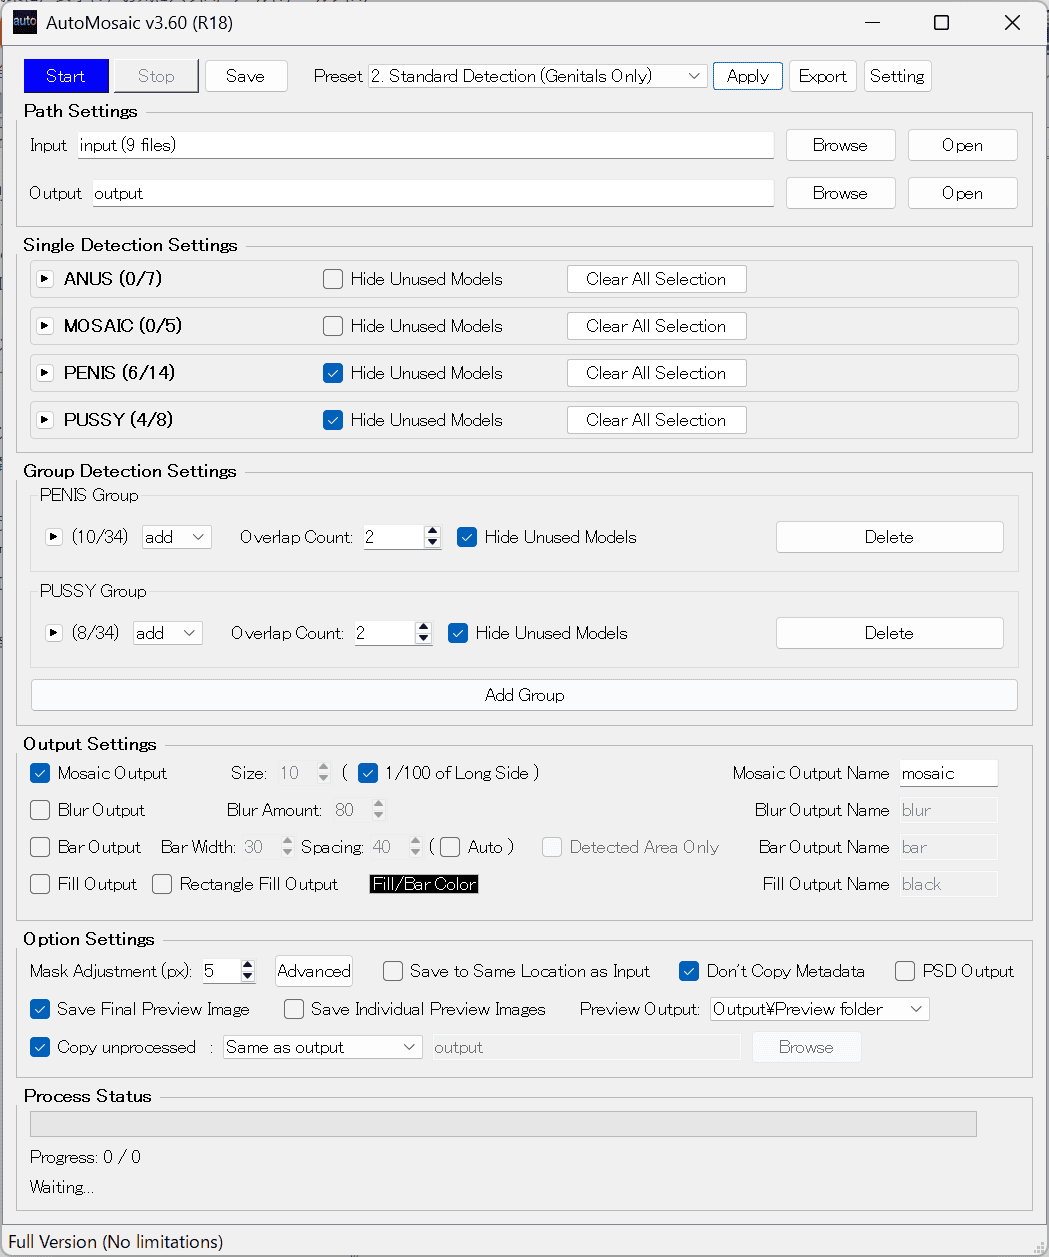
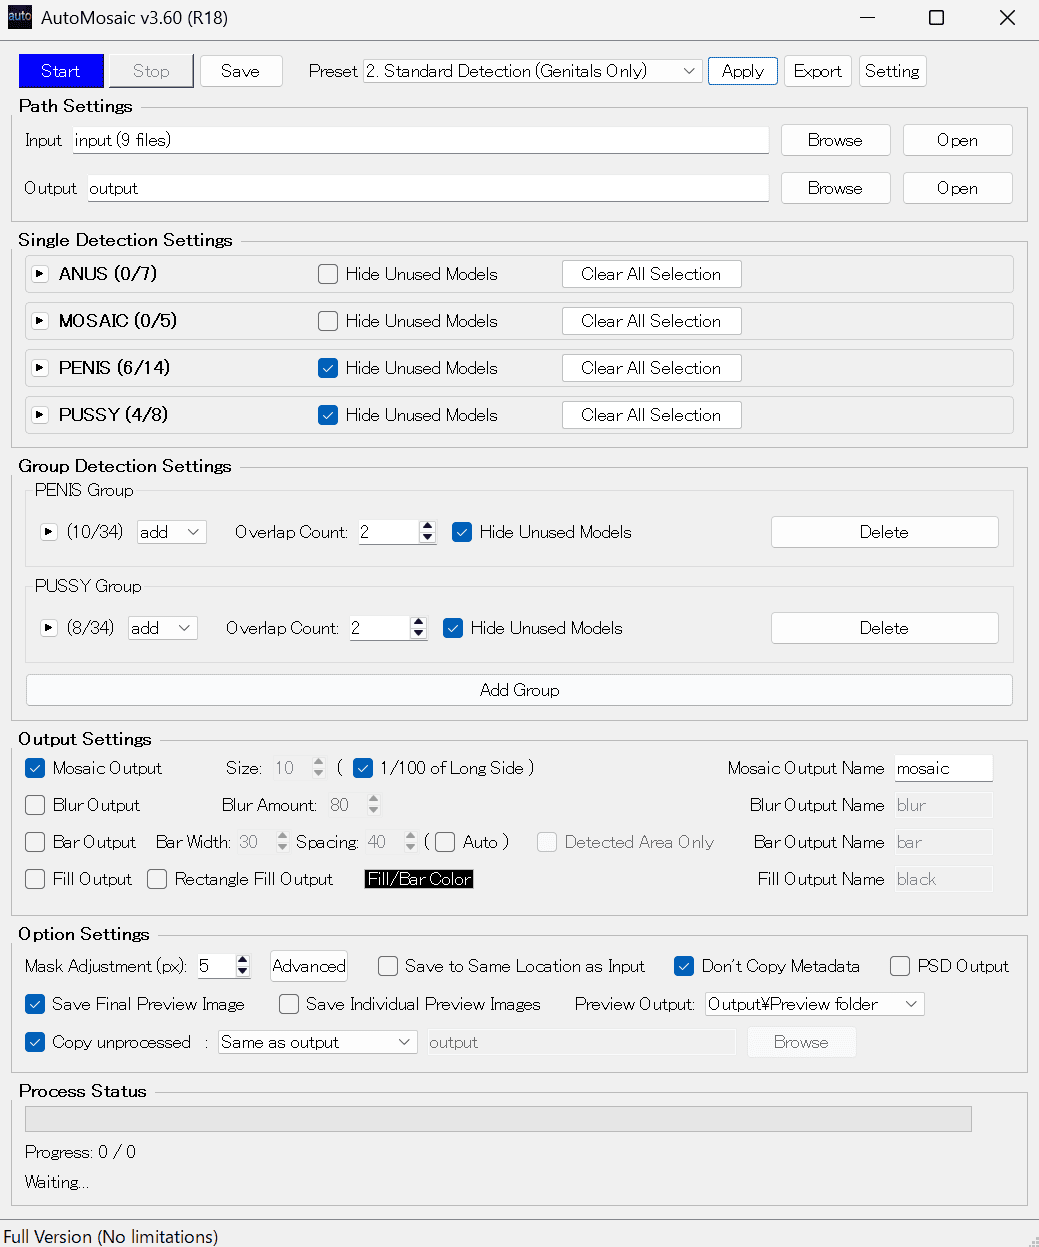
スクショ調整

diff --git a/automosaic-video_j.html b/automosaic-video_j.html
@@ -1276,11 +1276,11 @@
             <p class="benchmark-pending">測定結果は準備中です。</p>
           </div>
         </section>
-        <section class="section ui-preview" id="ui" style="--ui-shot-ratio: 1164 / 812">
+        <section class="section ui-preview" id="ui" style="--ui-shot-ratio: 1154 / 802">
           <h2><span class="lang-ja">UIスクリーンショット</span></h2>
           <a class="shot ui-shot lang-ja" id="ui-light-preview" data-ui-shot="light" href="assets/automosaic-video/ui_ja.png" rel="noopener" target="_blank">
             <div class="ui-shot-frame">
-              <img loading="lazy" decoding="async" alt="AutoMosaic Video (通常版) UI (Japanese) — ライト" src="assets/automosaic-video/ui_ja.png" width="1164" height="812" />
+              <img loading="lazy" decoding="async" alt="AutoMosaic Video (通常版) UI (Japanese) — ライト" src="assets/automosaic-video/ui_ja.png" width="1154" height="802" />
             </div>
             <div class="cap">UI（日本語・ライト）</div>
           </a>

diff --git a/automosaic-video.html b/automosaic-video.html
@@ -1211,11 +1211,11 @@
             <p class="benchmark-pending">Benchmark results are not yet available.</p>
           </div>
         </section>
-        <section class="section ui-preview" id="ui" style="--ui-shot-ratio: 1164 / 812">
+        <section class="section ui-preview" id="ui" style="--ui-shot-ratio: 1154 / 802">
           <h2><span class="lang-en">UI screenshot</span></h2>
           <a class="shot ui-shot lang-en" id="ui-light-preview" data-ui-shot="light" href="assets/automosaic-video/ui_en.png" rel="noopener" target="_blank">
             <div class="ui-shot-frame">
-              <img loading="lazy" decoding="async" alt="AutoMosaic Video (General) UI (English) — Light" src="assets/automosaic-video/ui_en.png" width="1164" height="812" />
+              <img loading="lazy" decoding="async" alt="AutoMosaic Video (General) UI (English) — Light" src="assets/automosaic-video/ui_en.png" width="1154" height="802" />
             </div>
             <div class="cap">UI (English, light)</div>
           </a>

diff --git a/automosaic-video-r18_j.html b/automosaic-video-r18_j.html
@@ -1327,11 +1327,11 @@
             </div>
           </div>
         </section>
-        <section class="section ui-preview" id="ui" style="--ui-shot-ratio: 1164 / 812">
+        <section class="section ui-preview" id="ui" style="--ui-shot-ratio: 1154 / 802">
           <h2><span class="lang-ja">UIスクリーンショット</span></h2>
           <a class="shot ui-shot lang-ja" id="ui-light-preview" data-ui-shot="light" href="assets/automosaic-video/ui_ja_r18.png" rel="noopener" target="_blank">
             <div class="ui-shot-frame">
-              <img loading="lazy" decoding="async" alt="AutoMosaic Video (R18版) UI (Japanese) — ライト" src="assets/automosaic-video/ui_ja_r18.png" width="1164" height="812" />
+              <img loading="lazy" decoding="async" alt="AutoMosaic Video (R18版) UI (Japanese) — ライト" src="assets/automosaic-video/ui_ja_r18.png" width="1154" height="802" />
             </div>
             <div class="cap">UI（日本語・ライト）</div>
           </a>

diff --git a/automosaic-video-r18.html b/automosaic-video-r18.html
@@ -1261,11 +1261,11 @@
             </div>
           </div>
         </section>
-        <section class="section ui-preview" id="ui" style="--ui-shot-ratio: 1164 / 812">
+        <section class="section ui-preview" id="ui" style="--ui-shot-ratio: 1154 / 802">
           <h2><span class="lang-en">UI screenshot</span></h2>
           <a class="shot ui-shot lang-en" id="ui-light-preview" data-ui-shot="light" href="assets/automosaic-video/ui_en_r18.png" rel="noopener" target="_blank">
             <div class="ui-shot-frame">
-              <img loading="lazy" decoding="async" alt="AutoMosaic Video (R18) UI (English) — Light" src="assets/automosaic-video/ui_en_r18.png" width="1164" height="812" />
+              <img loading="lazy" decoding="async" alt="AutoMosaic Video (R18) UI (English) — Light" src="assets/automosaic-video/ui_en_r18.png" width="1154" height="802" />
             </div>
             <div class="cap">UI (English, light)</div>
           </a>

diff --git a/automosaic_j.html b/automosaic_j.html
@@ -1292,11 +1292,11 @@
             </a>
           </div>
         </section>
-        <section class="section ui-preview" id="ui" style="--ui-shot-ratio: 994 / 1112">
+        <section class="section ui-preview" id="ui" style="--ui-shot-ratio: 984 / 1102">
           <h2><span class="lang-ja">UIスクリーンショット</span></h2>
           <a class="shot ui-shot lang-ja" id="ui-light-preview" data-ui-shot="light" href="assets/automosaic/ui_ja.png" rel="noopener" target="_blank">
             <div class="ui-shot-frame">
-              <img loading="lazy" decoding="async" alt="AutoMosaic UI (Japanese) — ライト" src="assets/automosaic/ui_ja.png" width="994" height="1112" />
+              <img loading="lazy" decoding="async" alt="AutoMosaic UI (Japanese) — ライト" src="assets/automosaic/ui_ja.png" width="984" height="1102" />
             </div>
             <div class="cap">UI（日本語・ライト）</div>
           </a>

diff --git a/automosaic.html b/automosaic.html
@@ -1233,11 +1233,11 @@
             </a>
           </div>
         </section>
-        <section class="section ui-preview" id="ui" style="--ui-shot-ratio: 1049 / 1112">
+        <section class="section ui-preview" id="ui" style="--ui-shot-ratio: 1039 / 1102">
           <h2><span class="lang-en">UI screenshot</span></h2>
           <a class="shot ui-shot lang-en" id="ui-light-preview" data-ui-shot="light" href="assets/automosaic/ui_en.png" rel="noopener" target="_blank">
             <div class="ui-shot-frame">
-              <img loading="lazy" decoding="async" alt="AutoMosaic UI (English) — Light" src="assets/automosaic/ui_en.png" width="1049" height="1112" />
+              <img loading="lazy" decoding="async" alt="AutoMosaic UI (English) — Light" src="assets/automosaic/ui_en.png" width="1039" height="1102" />
             </div>
             <div class="cap">UI (English, light)</div>
           </a>

diff --git a/automosaic-r18_j.html b/automosaic-r18_j.html
@@ -1450,7 +1450,7 @@
           <h2><span class="lang-ja">UIスクリーンショット</span></h2>
           <a class="shot ui-shot lang-ja" id="ui-light-preview" data-ui-shot="light" href="assets/automosaic/ui_ja_r18.png" rel="noopener" target="_blank">
             <div class="ui-shot-frame">
-              <img loading="lazy" decoding="async" alt="AutoMosaic R18 UI (Japanese) — ライト" src="assets/automosaic/ui_ja_r18.png" width="994" height="1264" />
+              <img loading="lazy" decoding="async" alt="AutoMosaic R18 UI (Japanese) — ライト" src="assets/automosaic/ui_ja_r18.png" width="984" height="1254" />
             </div>
             <div class="cap">UI（日本語・ライト）</div>
           </a>

diff --git a/automosaic-r18.html b/automosaic-r18.html
@@ -1387,7 +1387,7 @@
           <h2><span class="lang-en">UI screenshot</span></h2>
           <a class="shot ui-shot lang-en" id="ui-light-preview" data-ui-shot="light" href="assets/automosaic/ui_en_r18.png" rel="noopener" target="_blank">
             <div class="ui-shot-frame">
-              <img loading="lazy" decoding="async" alt="AutoMosaic R18 UI (English) — Light" src="assets/automosaic/ui_en_r18.png" width="1049" height="1257" />
+              <img loading="lazy" decoding="async" alt="AutoMosaic R18 UI (English) — Light" src="assets/automosaic/ui_en_r18.png" width="1039" height="1247" />
             </div>
             <div class="cap">UI (English, light)</div>
           </a>
